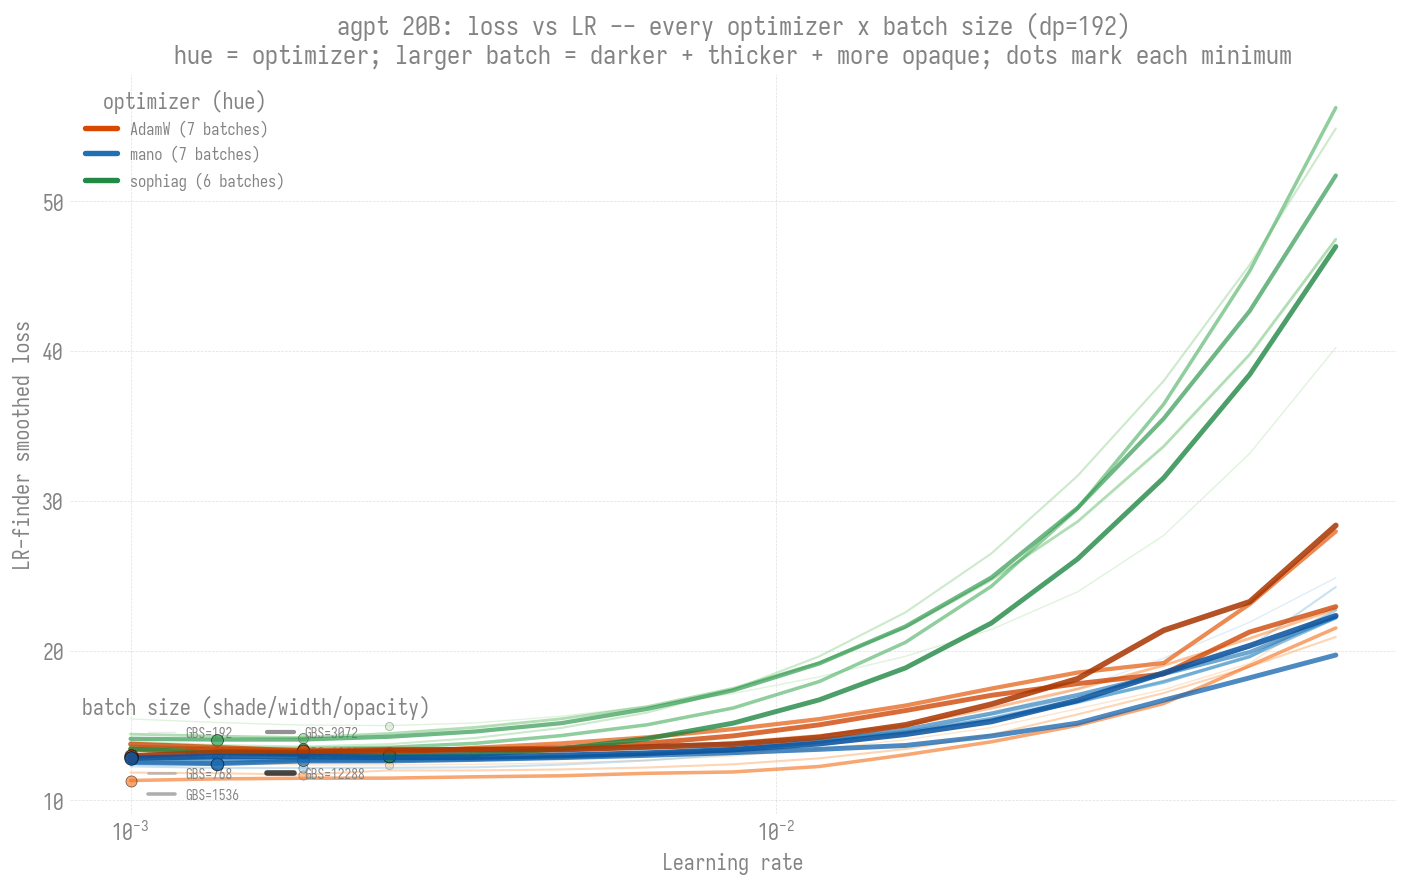
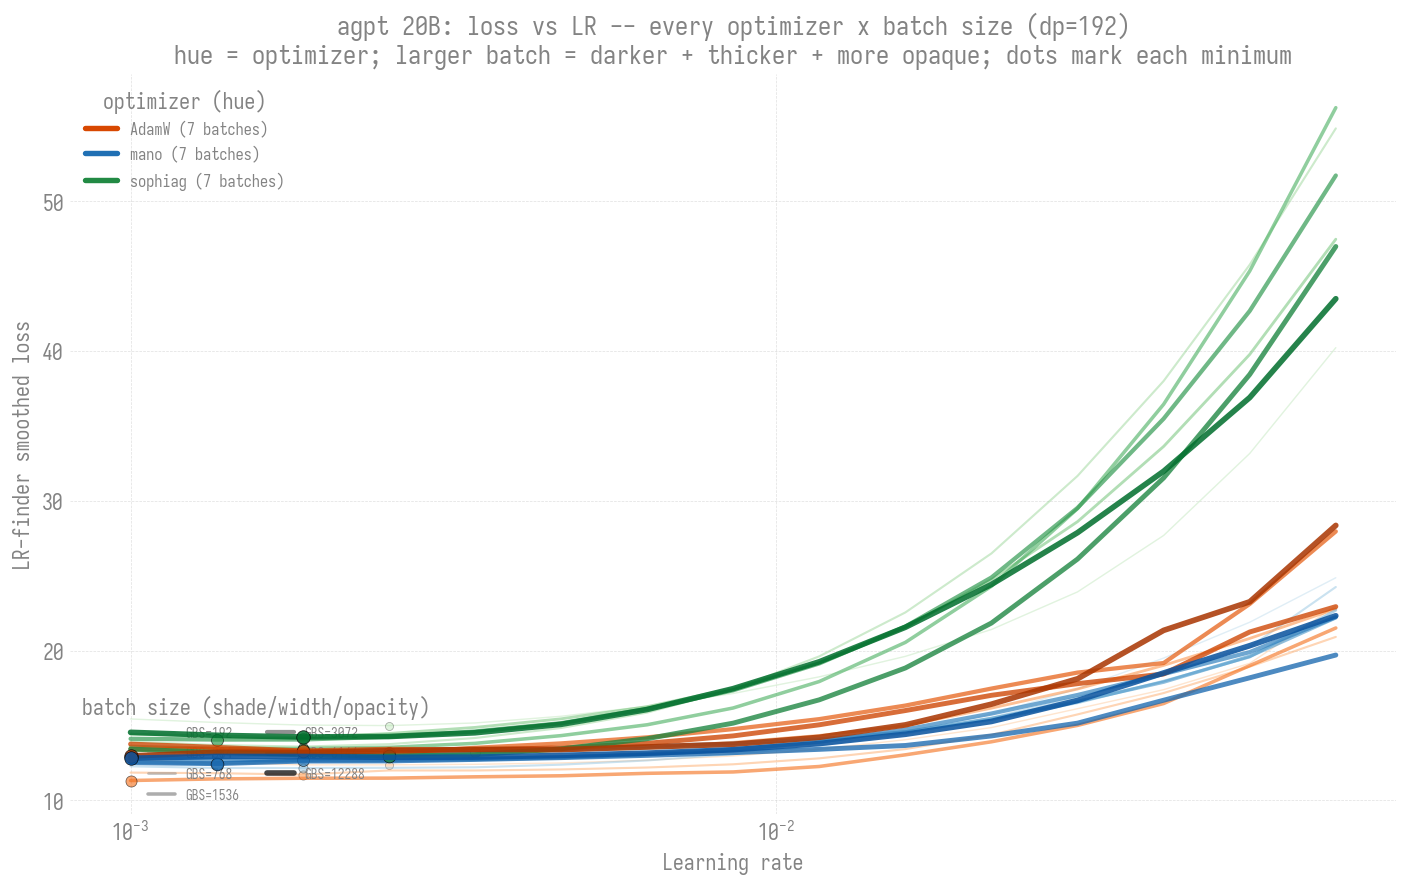
docs(ezpz/lr-finder/20b): final cell (12288/sophiag) -- grid 21/21, 0 NaN
Last 20B cell landed (12288/sophiag, 1.4e-5/12.4, clean). Full grid now
21/21 with ZERO NaN anywhere -- "20B never cliffs" confirmed across every
optimizer x batch. Filled the table's last "(finishing)" cell; regenerated
the combined/min-LR/all-opt figures with the complete sophiag column.

diff --git a/torchtitan/experiments/ezpz/docs/experiments/lr-finder/agpt/20b/README.md b/torchtitan/experiments/ezpz/docs/experiments/lr-finder/agpt/20b/README.md
@@ -38,9 +38,9 @@ including both production batches (6144, 12288):
 | 1536  | 1.0e-3 / 11.3 | 2.5e-5 / 12.0 | 1.4e-5 / 12.4 |
 | 3072  | 1.4e-5 / 12.4 | 3.4e-5 / 11.8 | 1.4e-5 / 12.4 |
 | **6144** (prod) | 1.6e-4 / 11.9 | 8.6e-5 / 11.5 | 1.4e-3 / 12.3 |
-| **12288** (512N) | 3.4e-5 / 12.3 | 6.3e-5 / 11.7 | _(finishing)_ |
+| **12288** (512N) | 3.4e-5 / 12.3 | 6.3e-5 / 11.7 | 1.4e-5 / 12.4 |
 
-(cells are min-LR / min-loss; all 0 NaN.)
+(cells are min-LR / min-loss; **all 21 cells 0 NaN** -- 20B never cliffs.)
 
 ![20B all optimizers x all batch sizes](figures/lr_finder_20b_all_opts_all_gbs.png)
 
